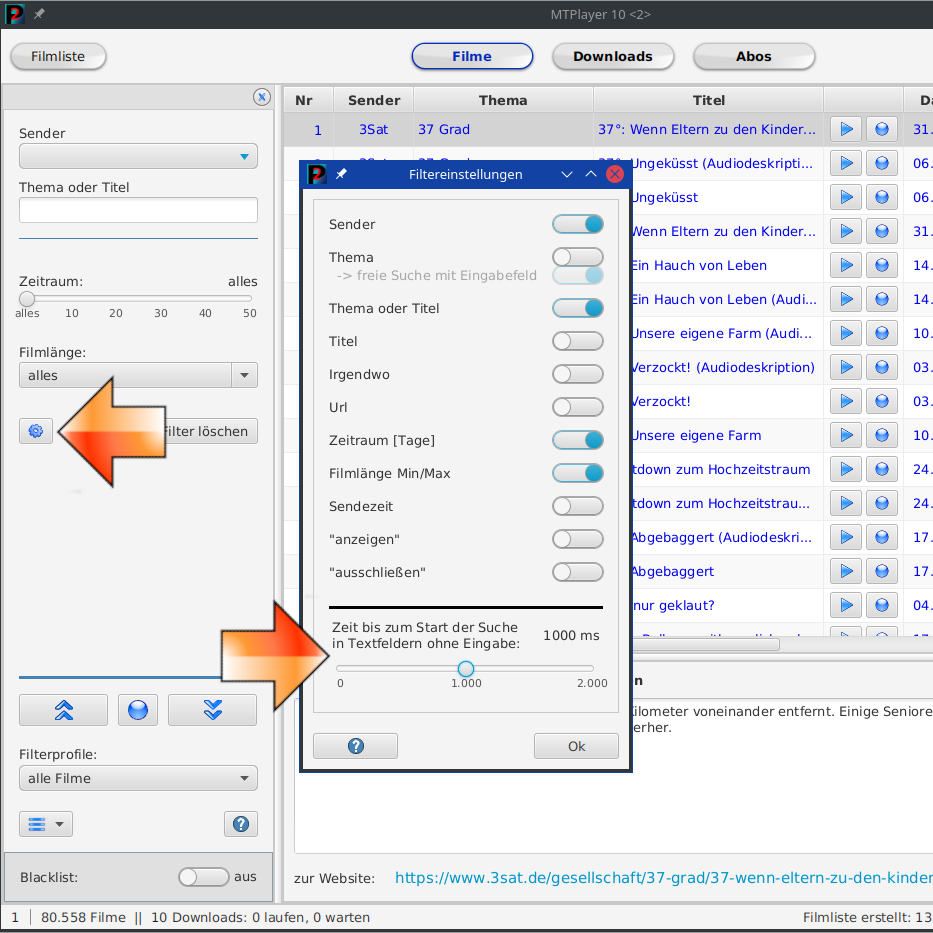
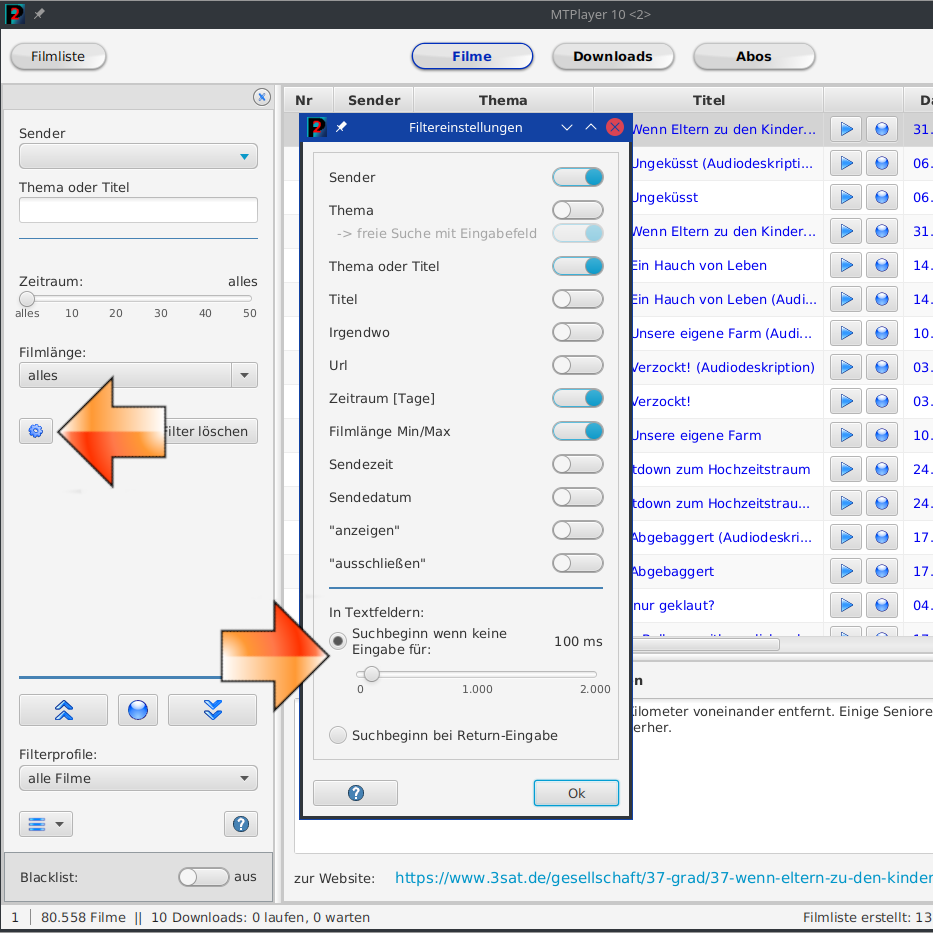
filter: start search after return

Changed region(s): [[0.3108, 0.0932, 0.6838, 0.746], [0.3108, 0.7771, 0.6838, 0.9014]]

diff --git a/src/main/java/de/p2tools/mtplayer/gui/FilmFilterControllerTextFilter.java b/src/main/java/de/p2tools/mtplayer/gui/FilmFilterControllerTextFilter.java
@@ -16,6 +16,7 @@
 
 package de.p2tools.mtplayer.gui;
 
+import de.p2tools.mtplayer.controller.config.ProgConfig;
 import de.p2tools.mtplayer.controller.config.ProgData;
 import de.p2tools.mtplayer.tools.storedFilter.FilterCheckRegEx;
 import javafx.beans.property.BooleanProperty;
@@ -23,6 +24,7 @@ import javafx.collections.ListChangeListener;
 import javafx.geometry.Insets;
 import javafx.geometry.Pos;
 import javafx.scene.control.*;
+import javafx.scene.input.KeyCode;
 import javafx.scene.layout.HBox;
 import javafx.scene.layout.Priority;
 import javafx.scene.layout.VBox;
@@ -168,21 +170,112 @@ public class FilmFilterControllerTextFilter extends VBox {
         cboTheme.editableProperty().bind(progData.storedFilters.getActFilterSettings().themeExactProperty().not());
         cboTheme.setMaxSize(Double.MAX_VALUE, Double.MAX_VALUE);
         cboTheme.setVisibleRowCount(25);
-        cboTheme.valueProperty().bindBidirectional(progData.storedFilters.getActFilterSettings().themeProperty());
-        cboTheme.getEditor().textProperty().addListener((observable, oldValue, newValue) -> {
-            if (oldValue != null && newValue != null) {
-                progData.storedFilters.getActFilterSettings().setTheme(newValue);
+        cboTheme.setItems(progData.worker.getThemeForChannelList());
+
+//        cboTheme.valueProperty().bindBidirectional(progData.storedFilters.getActFilterSettings().themeProperty());
+//        cboTheme.getEditor().textProperty().addListener((observable, oldValue, newValue) -> {
+//            if (oldValue != null && newValue != null) {
+//                progData.storedFilters.getActFilterSettings().setTheme(newValue);
+//            }
+//        });
+
+
+        cboTheme.getSelectionModel().selectedItemProperty().addListener((observable, oldValue, newValue) -> {
+            if (!progData.storedFilters.getActFilterSettings().themeExactProperty().getValue()) {
+                return;
+            }
+
+            if (!ProgConfig.SYSTEM_FILTER_RETURN.getBool()) {
+                progData.storedFilters.getActFilterSettings().setTheme(cboTheme.valueProperty().getValue());
             }
         });
-        cboTheme.setItems(progData.worker.getThemeForChannelList());
+        cboTheme.getEditor().textProperty().addListener((observable, oldValue, newValue) -> {
+            if (!ProgConfig.SYSTEM_FILTER_RETURN.getBool()) {
+                progData.storedFilters.getActFilterSettings().setTheme(cboTheme.getEditor().getText());
+            }
+        });
+        cboTheme.getEditor().setOnKeyPressed(event -> {
+            if (ProgConfig.SYSTEM_FILTER_RETURN.getBool() && event.getCode() == KeyCode.ENTER) {
+                progData.storedFilters.getActFilterSettings().setTheme(cboTheme.getEditor().getText());
+            }
+        });
+        progData.storedFilters.getActFilterSettings().themeProperty().addListener((observable, oldValue, newValue) -> {
+                    cboTheme.valueProperty().setValue(progData.storedFilters.getActFilterSettings().getTheme());
+                }
+        );
+        cboTheme.valueProperty().setValue(progData.storedFilters.getActFilterSettings().getTheme());
+        progData.worker.getThemeForChannelList().addListener((ListChangeListener<String>) c -> {
+            cboTheme.valueProperty().setValue(progData.storedFilters.getActFilterSettings().getTheme());
+        });
+
+
+//        txtThemeTitle.textProperty().bindBidirectional(progData.storedFilters.getActFilterSettings().themeTitleProperty());
+        txtThemeTitle.textProperty().addListener((u, o, n) -> {
+            if (!ProgConfig.SYSTEM_FILTER_RETURN.getBool()) {
+                progData.storedFilters.getActFilterSettings().setThemeTitle(txtThemeTitle.getText());
+            }
+        });
+        txtThemeTitle.setOnKeyPressed(event -> {
+            if (ProgConfig.SYSTEM_FILTER_RETURN.getBool() && event.getCode() == KeyCode.ENTER) {
+                progData.storedFilters.getActFilterSettings().setThemeTitle(txtThemeTitle.getText());
+            }
+        });
+        progData.storedFilters.getActFilterSettings().themeTitleProperty().addListener((u, o, n) ->
+                txtThemeTitle.setText(progData.storedFilters.getActFilterSettings().getThemeTitle())
+        );
+        txtThemeTitle.setText(progData.storedFilters.getActFilterSettings().getThemeTitle());
+
+//        txtTitle.textProperty().bindBidirectional(progData.storedFilters.getActFilterSettings().titleProperty());
+        txtTitle.textProperty().addListener((u, o, n) -> {
+            if (!ProgConfig.SYSTEM_FILTER_RETURN.getBool()) {
+                progData.storedFilters.getActFilterSettings().setTitle(txtTitle.getText());
+            }
+        });
+        txtTitle.setOnKeyPressed(event -> {
+            if (ProgConfig.SYSTEM_FILTER_RETURN.getBool() && event.getCode() == KeyCode.ENTER) {
+                progData.storedFilters.getActFilterSettings().setTitle(txtTitle.getText());
+            }
+        });
+        progData.storedFilters.getActFilterSettings().titleProperty().addListener((u, o, n) ->
+                txtTitle.setText(progData.storedFilters.getActFilterSettings().getTitle())
+        );
+        txtTitle.setText(progData.storedFilters.getActFilterSettings().getTitle());
+
+//        txtSomewhere.textProperty().bindBidirectional(progData.storedFilters.getActFilterSettings().somewhereProperty());
+        txtSomewhere.textProperty().addListener((u, o, n) -> {
+            if (!ProgConfig.SYSTEM_FILTER_RETURN.getBool()) {
+                progData.storedFilters.getActFilterSettings().setSomewhere(txtSomewhere.getText());
+            }
+        });
+        txtSomewhere.setOnKeyPressed(event -> {
+            if (ProgConfig.SYSTEM_FILTER_RETURN.getBool() && event.getCode() == KeyCode.ENTER) {
+                progData.storedFilters.getActFilterSettings().setSomewhere(txtSomewhere.getText());
+            }
+        });
+        progData.storedFilters.getActFilterSettings().somewhereProperty().addListener((u, o, n) -> {
+                    txtSomewhere.setText(progData.storedFilters.getActFilterSettings().getSomewhere());
+                }
+        );
+        txtSomewhere.setText(progData.storedFilters.getActFilterSettings().getSomewhere());
+
+//        txtUrl.textProperty().bindBidirectional(progData.storedFilters.getActFilterSettings().urlProperty());
+        txtUrl.textProperty().addListener((u, o, n) -> {
+            if (!ProgConfig.SYSTEM_FILTER_RETURN.getBool()) {
+                progData.storedFilters.getActFilterSettings().setUrl(txtUrl.getText());
+            }
+        });
+        txtUrl.setOnKeyPressed(event -> {
+            if (ProgConfig.SYSTEM_FILTER_RETURN.getBool() && event.getCode() == KeyCode.ENTER) {
+                progData.storedFilters.getActFilterSettings().setUrl(txtUrl.getText());
+            }
+        });
+        progData.storedFilters.getActFilterSettings().urlProperty().addListener((u, o, n) ->
+                txtUrl.setText(progData.storedFilters.getActFilterSettings().getUrl())
+        );
+        txtUrl.setText(progData.storedFilters.getActFilterSettings().getUrl());
+
         FilterCheckRegEx fTh = new FilterCheckRegEx(cboTheme.getEditor());
         cboTheme.getEditor().textProperty().addListener((observable, oldValue, newValue) -> fTh.checkPattern());
-
-        txtThemeTitle.textProperty().bindBidirectional(progData.storedFilters.getActFilterSettings().themeTitleProperty());
-        txtTitle.textProperty().bindBidirectional(progData.storedFilters.getActFilterSettings().titleProperty());
-        txtSomewhere.textProperty().bindBidirectional(progData.storedFilters.getActFilterSettings().somewhereProperty());
-        txtUrl.textProperty().bindBidirectional(progData.storedFilters.getActFilterSettings().urlProperty());
-
         FilterCheckRegEx fTT = new FilterCheckRegEx(txtThemeTitle);
         txtThemeTitle.textProperty().addListener((observable, oldValue, newValue) -> fTT.checkPattern());
         FilterCheckRegEx fT = new FilterCheckRegEx(txtTitle);
@@ -195,7 +288,7 @@ public class FilmFilterControllerTextFilter extends VBox {
 
     private void addFilter() {
         VBox vBox = new VBox(10);
-        addChannel(vBox);
+        addTxt("Sender", mbChannel, vBox, progData.storedFilters.getActFilterSettings().channelVisProperty());
         addTxt("Thema", cboTheme, vBox, progData.storedFilters.getActFilterSettings().themeVisProperty());
         addTxt("Thema oder Titel", txtThemeTitle, vBox, progData.storedFilters.getActFilterSettings().themeTitleVisProperty());
         addTxt("Titel", txtTitle, vBox, progData.storedFilters.getActFilterSettings().titleVisProperty());
@@ -236,15 +329,15 @@ public class FilmFilterControllerTextFilter extends VBox {
         vBox.managedProperty().bind(booleanProperty);
     }
 
-    private void addChannel(VBox vBoxComplete) {
-        VBox vBox = new VBox(2);
-        Label label = new Label("Sender");
-        vBox.getChildren().addAll(label, mbChannel);
-        vBoxComplete.getChildren().add(vBox);
-
-        vBox.visibleProperty().bind(progData.storedFilters.getActFilterSettings().channelVisProperty());
-        vBox.managedProperty().bind(progData.storedFilters.getActFilterSettings().channelVisProperty());
-    }
+//    private void addChannel(VBox vBoxComplete) {
+//        VBox vBox = new VBox(2);
+//        Label label = new Label("Sender");
+//        vBox.getChildren().addAll(label, mbChannel);
+//        vBoxComplete.getChildren().add(vBox);
+//
+//        vBox.visibleProperty().bind(progData.storedFilters.getActFilterSettings().channelVisProperty());
+//        vBox.managedProperty().bind(progData.storedFilters.getActFilterSettings().channelVisProperty());
+//    }
 
     private class MenuItemClass {
 

diff --git a/src/main/java/de/p2tools/mtplayer/gui/FilmFilterEditDialog.java b/src/main/java/de/p2tools/mtplayer/gui/FilmFilterEditDialog.java
@@ -22,14 +22,12 @@ import de.p2tools.mtplayer.controller.config.ProgData;
 import de.p2tools.mtplayer.gui.tools.HelpText;
 import de.p2tools.p2Lib.dialogs.dialog.PDialogExtra;
 import de.p2tools.p2Lib.guiTools.PButton;
+import de.p2tools.p2Lib.guiTools.PColumnConstraints;
 import de.p2tools.p2Lib.guiTools.pToggleSwitch.PToggleSwitch;
+import javafx.beans.property.IntegerProperty;
 import javafx.geometry.Insets;
-import javafx.geometry.Pos;
-import javafx.scene.control.Button;
-import javafx.scene.control.Label;
-import javafx.scene.control.Separator;
-import javafx.scene.control.Slider;
-import javafx.scene.layout.HBox;
+import javafx.scene.control.*;
+import javafx.scene.layout.GridPane;
 import javafx.scene.layout.Priority;
 import javafx.scene.layout.Region;
 import javafx.scene.layout.VBox;
@@ -38,6 +36,7 @@ import javafx.scene.layout.VBox;
 public class FilmFilterEditDialog extends PDialogExtra {
 
     final ProgData progData;
+    IntegerProperty waitTime = ProgConfig.SYSTEM_FILTER_WAIT_TIME.getIntegerProperty();
 
     public FilmFilterEditDialog(ProgData progData) {
         super(progData.primaryStage, null, "Filtereinstellungen", true, true, DECO.NONE);
@@ -136,15 +135,18 @@ public class FilmFilterEditDialog extends PDialogExtra {
         vBox.getChildren().add(tglNot);
 
         //Wartezeit
-        VBox vBoxWait = new VBox(10);
-        vBoxWait.setSpacing(10);
-        vBoxWait.setPadding(new Insets(10, 0, 0, 0));
+        Separator sp = new Separator();
+        sp.getStyleClass().add("pseperator2");
+        sp.setMinHeight(0);
 
-        Label lblTitle = new Label("In Textfeldern: Suchbeginn\n" +
-                "wenn keine Eingabe für:");
-        lblTitle.setMinWidth(0);
-        Label lbl = new Label();
-        lbl.setMaxWidth(Double.MAX_VALUE);
+        final ToggleGroup group = new ToggleGroup();
+        RadioButton rboWait = new RadioButton();
+        RadioButton rboReturn = new RadioButton();
+        rboWait.setToggleGroup(group);
+        rboReturn.setToggleGroup(group);
+        rboWait.setSelected(!ProgConfig.SYSTEM_FILTER_RETURN.getBool());
+        rboReturn.selectedProperty().bindBidirectional(ProgConfig.SYSTEM_FILTER_RETURN.getBooleanProperty());
+
         Label lblValue = new Label();
         lblValue.setMinWidth(Region.USE_COMPUTED_SIZE);
 
@@ -157,30 +159,61 @@ public class FilmFilterEditDialog extends PDialogExtra {
         slider.setShowTickLabels(true);
         slider.setSnapToTicks(true);
         slider.valueProperty().addListener((observable, oldValue, newValue) -> {
-            ProgConfig.SYSTEM_FILTER_WAIT_TIME.setValue(setValue(slider, lblValue));
+            waitTime.setValue(Double.valueOf(slider.getValue()).intValue());
+            setLabel(lblValue);
         });
-        slider.setValue(ProgConfig.SYSTEM_FILTER_WAIT_TIME.getInt());
-        setValue(slider, lblValue);
 
-        HBox hBoxLbl = new HBox(0);
-        hBoxLbl.setAlignment(Pos.BOTTOM_LEFT);
-        HBox.setHgrow(lbl, Priority.ALWAYS);
-        hBoxLbl.getChildren().addAll(lblTitle, lbl, lblValue);
 
-        HBox hBoxSlider = new HBox();
-        hBoxSlider.getChildren().addAll(slider);
-        HBox.setHgrow(slider, Priority.ALWAYS);
+        slider.disableProperty().bind(rboReturn.selectedProperty());
+        rboReturn.selectedProperty().addListener((u, o, n) -> {
+            changeRbo(rboReturn, slider, lblValue);
+        });
+        changeRbo(rboReturn, slider, lblValue);
 
-        Separator sp = new Separator();
-        sp.getStyleClass().add("pseperator2");
-        sp.setMinHeight(0);
 
-        vBoxWait.getChildren().addAll(sp, hBoxLbl, hBoxSlider);
-        vBox.getChildren().addAll(vBoxWait);
+        GridPane gridPane = new GridPane();
+        gridPane.setHgap(5);
+        gridPane.setVgap(5);
+        gridPane.setPadding(new Insets(0));
+        gridPane.setMaxWidth(Double.MAX_VALUE);
+        VBox.setVgrow(gridPane, Priority.ALWAYS);
+
+        int row = 0;
+        gridPane.add(new Label("In Textfeldern:"), 0, row, 3, 1);
+
+        gridPane.add(rboWait, 0, ++row);
+        gridPane.add(new Label("Suchbeginn wenn keine\nEingabe für:"), 1, row);
+        gridPane.add(lblValue, 2, row);
+
+        gridPane.add(slider, 1, ++row, 2, 1);
+        GridPane.setHgrow(slider, Priority.ALWAYS);
+        slider.setPadding(new Insets(5, 0, 0, 0));
+
+        gridPane.add(new Label(), 0, ++row);
+
+        gridPane.add(rboReturn, 0, ++row);
+        gridPane.add(new Label("Suchbeginn bei Return-Eingabe"), 1, row, 2, 1);
+
+        gridPane.getColumnConstraints().addAll(
+                PColumnConstraints.getCcPrefSize(),
+                PColumnConstraints.getCcPrefSize(),
+                PColumnConstraints.getCcComputedSizeAndHgrowRight());
+
+        vBox.getChildren().addAll(sp, gridPane);
     }
 
-    private int setValue(Slider slider, Label lblValue) {
-        int intValue = Double.valueOf(slider.getValue()).intValue();
+    private void changeRbo(RadioButton rboReturn, Slider slider, Label lblValue) {
+        if (rboReturn.isSelected()) {
+            slider.setValue(0);
+            waitTime.setValue(Double.valueOf(slider.getValue()).intValue());
+        } else {
+            slider.setValue(waitTime.getValue());
+        }
+        setLabel(lblValue);
+    }
+
+    private int setLabel(Label lblValue) {
+        int intValue = waitTime.getValue();
         lblValue.setText("  " + intValue + " ms");
         return intValue;
     }

diff --git a/src/main/java/de/p2tools/mtplayer/tools/storedFilter/SelectedFilter.java b/src/main/java/de/p2tools/mtplayer/tools/storedFilter/SelectedFilter.java
@@ -24,6 +24,7 @@ import de.p2tools.p2Lib.tools.log.PDebugLog;
 import javafx.animation.PauseTransition;
 import javafx.beans.property.BooleanProperty;
 import javafx.beans.property.SimpleBooleanProperty;
+import javafx.beans.property.StringProperty;
 import javafx.util.Duration;
 
 import java.util.function.Predicate;
@@ -34,6 +35,7 @@ public final class SelectedFilter extends SelectedFilterProps {
     private final BooleanProperty blacklistChange = new SimpleBooleanProperty(false);
     private boolean reportChange = true;
     private final PauseTransition pause = new PauseTransition(Duration.millis(200));
+    StringProperty filterWaittime = ProgConfig.SYSTEM_FILTER_WAIT_TIME.getStringProperty();
 
 
     public SelectedFilter() {
@@ -84,7 +86,7 @@ public final class SelectedFilter extends SelectedFilterProps {
 
     public void initFilter() {
         pause.setDuration(Duration.millis(ProgConfig.SYSTEM_FILTER_WAIT_TIME.getInt()));
-        ProgConfig.SYSTEM_FILTER_WAIT_TIME.getStringProperty().addListener((observable, oldValue, newValue) -> {
+        filterWaittime.addListener((observable, oldValue, newValue) -> {
             PDebugLog.sysLog("SYSTEM_FILTER_WAIT_TIME.getStringProperty(): " + ProgConfig.SYSTEM_FILTER_WAIT_TIME.getInt());
             pause.setDuration(Duration.millis(ProgConfig.SYSTEM_FILTER_WAIT_TIME.getInt()));
         });
@@ -154,7 +156,7 @@ public final class SelectedFilter extends SelectedFilterProps {
 
         somewhereVisProperty().addListener(l -> reportFilterChange());
         somewhereProperty().addListener(l -> {
-            PDebugLog.sysLog("Pause somewhereProperty");
+            PDebugLog.sysLog("Pause somewhereProperty: " + pause.getDuration().toString());
             pause.setOnFinished(event -> reportFilterChange());
             pause.playFromStart();
 //            reportFilterChange();

diff --git a/src/main/java/de/p2tools/mtplayer/controller/config/ProgConfig.java b/src/main/java/de/p2tools/mtplayer/controller/config/ProgConfig.java
@@ -143,6 +143,7 @@ public class ProgConfig extends MLConfig {
     public static MLConfigs TIP_OF_DAY_WAS_SHOWN = addNewKey("tip-of-day-was-shown");//bereits angezeigte Tips
     public static MLConfigs TIP_OF_DAY_DATE = addNewKey("tip-of-day-date"); //Datum des letzten Tips
     public static MLConfigs SYSTEM_FILTER_WAIT_TIME = addNewKey("system-filter-wait-time", "100");
+    public static MLConfigs SYSTEM_FILTER_RETURN = addNewKey("system-filter-return", Boolean.FALSE.toString());
 
 
     // Fenstereinstellungen
